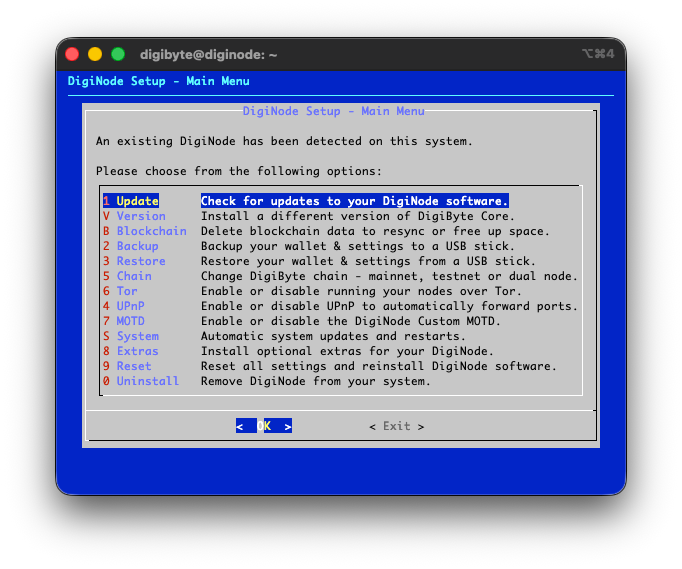
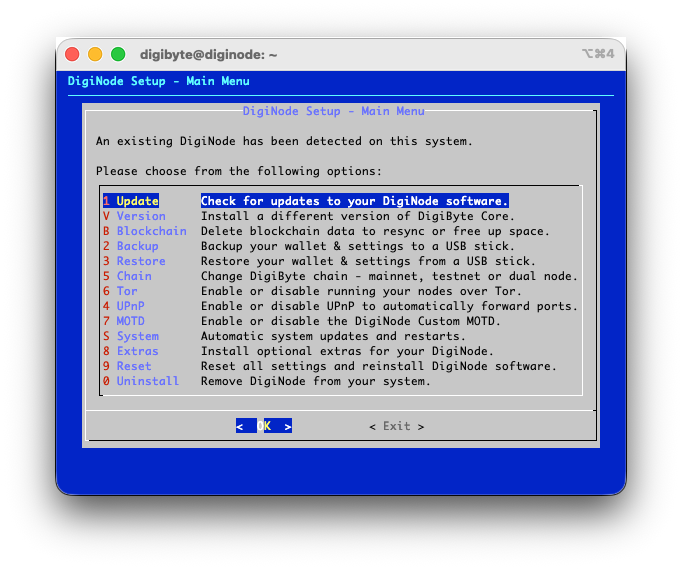
Website screenshots: light-mode title bars (dark originals kept in dark/)

Changed region(s): [[0.0616, 0.0598, 0.9238, 0.1494]]

diff --git a/website/source/screenshots/lightbar.py b/website/source/screenshots/lightbar.py
@@ -1,0 +1,86 @@
+"""Give a macOS dark-mode window capture (iTerm2) a light-mode title bar.
+
+Usage: lightbar.py <dark.png> <light.png>
+
+Finds the title bar (the dark grey band at the top of the window), maps its greys to light-mode greys (light bar, dark
+title text), and redraws the three window buttons on the light bar. Everything else - the terminal content and the
+window shadow - is left as it is. Needs Pillow.
+"""
+import sys
+
+from PIL import Image, ImageDraw
+
+BAR_DARK = 41          # dark-mode title bar grey
+BAR_LIGHT = 233        # light-mode title bar grey
+SEPARATOR = 212        # line between the title bar and the terminal
+BUTTONS = [((255, 95, 87), (226, 70, 63)), ((254, 188, 46), (225, 161, 22)), ((40, 200, 64), (20, 174, 44))]
+
+
+def is_grey(p, tol=18):
+    return max(p[:3]) - min(p[:3]) <= tol
+
+
+def light(v, dark=BAR_DARK):
+    return max(0, min(255, round(BAR_LIGHT - (v - dark) * (BAR_LIGHT - 63) / (196 - dark))))
+
+
+def main(src, out):
+    im = Image.open(src).convert("RGBA")
+    px = im.load()
+    w, h = im.size
+    cx = w // 2
+    # the bar: first opaque run of dark grey down the middle
+    # (the bar is #29292A or #20201F, depending on the window)
+    top = next(y for y in range(h) if px[cx, y][3] == 255 and is_grey(px[cx, y]) and 24 <= px[cx, y][0] <= 52)
+    dark = px[cx, top + 4][0]
+    bottom = top
+    while bottom + 1 < h and abs(px[cx, bottom + 1][0] - dark) <= 6 and is_grey(px[cx, bottom + 1]):
+        bottom += 1
+    mid = (top + bottom) // 2
+    left = next(x for x in range(w) if px[x, mid][3] == 255)
+    right = max(x for x in range(w) if px[x, mid][3] == 255)
+    # buttons: centres of the red, yellow and green blobs
+    blobs = [[], [], []]
+    for y in range(top, bottom + 1):
+        for x in range(left, left + 90):
+            r, g, b, a = px[x, y]
+            if r > 200 and g < 130 and b < 120:
+                blobs[0].append((x, y))
+            elif r > 200 and g > 150 and b < 110:
+                blobs[1].append((x, y))
+            elif g > 150 and r < 140 and b < 140:
+                blobs[2].append((x, y))
+    centres = []
+    for pts in blobs:
+        xs, ys = [p[0] for p in pts], [p[1] for p in pts]
+        centres.append(((min(xs) + max(xs) + 1) / 2, (min(ys) + max(ys) + 1) / 2, (max(xs) - min(xs) + 1) / 2))
+    # recolour the greys of the window edge, bar and separator line
+    for y in range(top - 2, bottom + 2):
+        for x in range(left - 1, right + 2):
+            r, g, b, a = px[x, y]
+            if a == 0 or not is_grey((r, g, b)):
+                continue
+            v = SEPARATOR if y == bottom + 1 else light((r + g + b) / 3, dark)
+            if y < top and a < 255:          # the rounded top edge blends into the shadow - keep it soft
+                v = max(v, 160)
+            px[x, y] = (v, v, v, a)
+    # redraw the buttons (4x, then scaled down, so they stay smooth)
+    s = 4
+    for (fill, edge), (bx, by, rad) in zip(BUTTONS, centres):
+        size = int(rad * 2 + 6)
+        x0, y0 = int(bx - size / 2), int(by - size / 2)
+        patch = Image.new("RGBA", (size * s, size * s), (0, 0, 0, 0))
+        d = ImageDraw.Draw(patch)
+        c = (bx - x0) * s, (by - y0) * s
+        R = rad * s
+        d.ellipse([c[0] - R - 1.5 * s, c[1] - R - 1.5 * s, c[0] + R + 1.5 * s, c[1] + R + 1.5 * s], fill=(BAR_LIGHT,) * 3 + (255,))
+        d.ellipse([c[0] - R, c[1] - R, c[0] + R, c[1] + R], fill=edge + (255,))
+        d.ellipse([c[0] - R + 0.75 * s, c[1] - R + 0.75 * s, c[0] + R - 0.75 * s, c[1] + R - 0.75 * s], fill=fill + (255,))
+        patch = patch.resize((size, size), Image.LANCZOS)
+        im.alpha_composite(patch, (x0, y0))
+    im.save(out, optimize=True)
+    print(f"{out}: bar {top}-{bottom}, window {left}-{right}, buttons {[(round(a), round(b)) for a, b, _ in centres]}")
+
+
+if __name__ == "__main__":
+    main(sys.argv[1], sys.argv[2])

diff --git a/website/screenshots/README.md b/website/screenshots/README.md
@@ -1,5 +1,10 @@
 # DigiNode Tools screenshots for the website (2026-10-16)
 
+**Light and dark:** the screenshots here have a light-mode macOS title bar (Olly's choice for the website). The originals,
+with the dark-mode title bar, are in `dark/` - keep them for a dark mode on the website one day. Make the light version
+of a new capture with `../source/screenshots/lightbar.py dark/<name>.png <name>.png` (needs Pillow): it only redraws the
+title bar (light grey, dark title, the window buttons) and leaves the terminal and the shadow as they are.
+
 Captured on Olly's Raspberry Pi (DigiNode Tools develop = v26.10.05, DigiByte Core v9.26.7) in iTerm2, as macOS
 window captures WITH the window shadow (`screencapture -l<window id>`, window in front).
 
